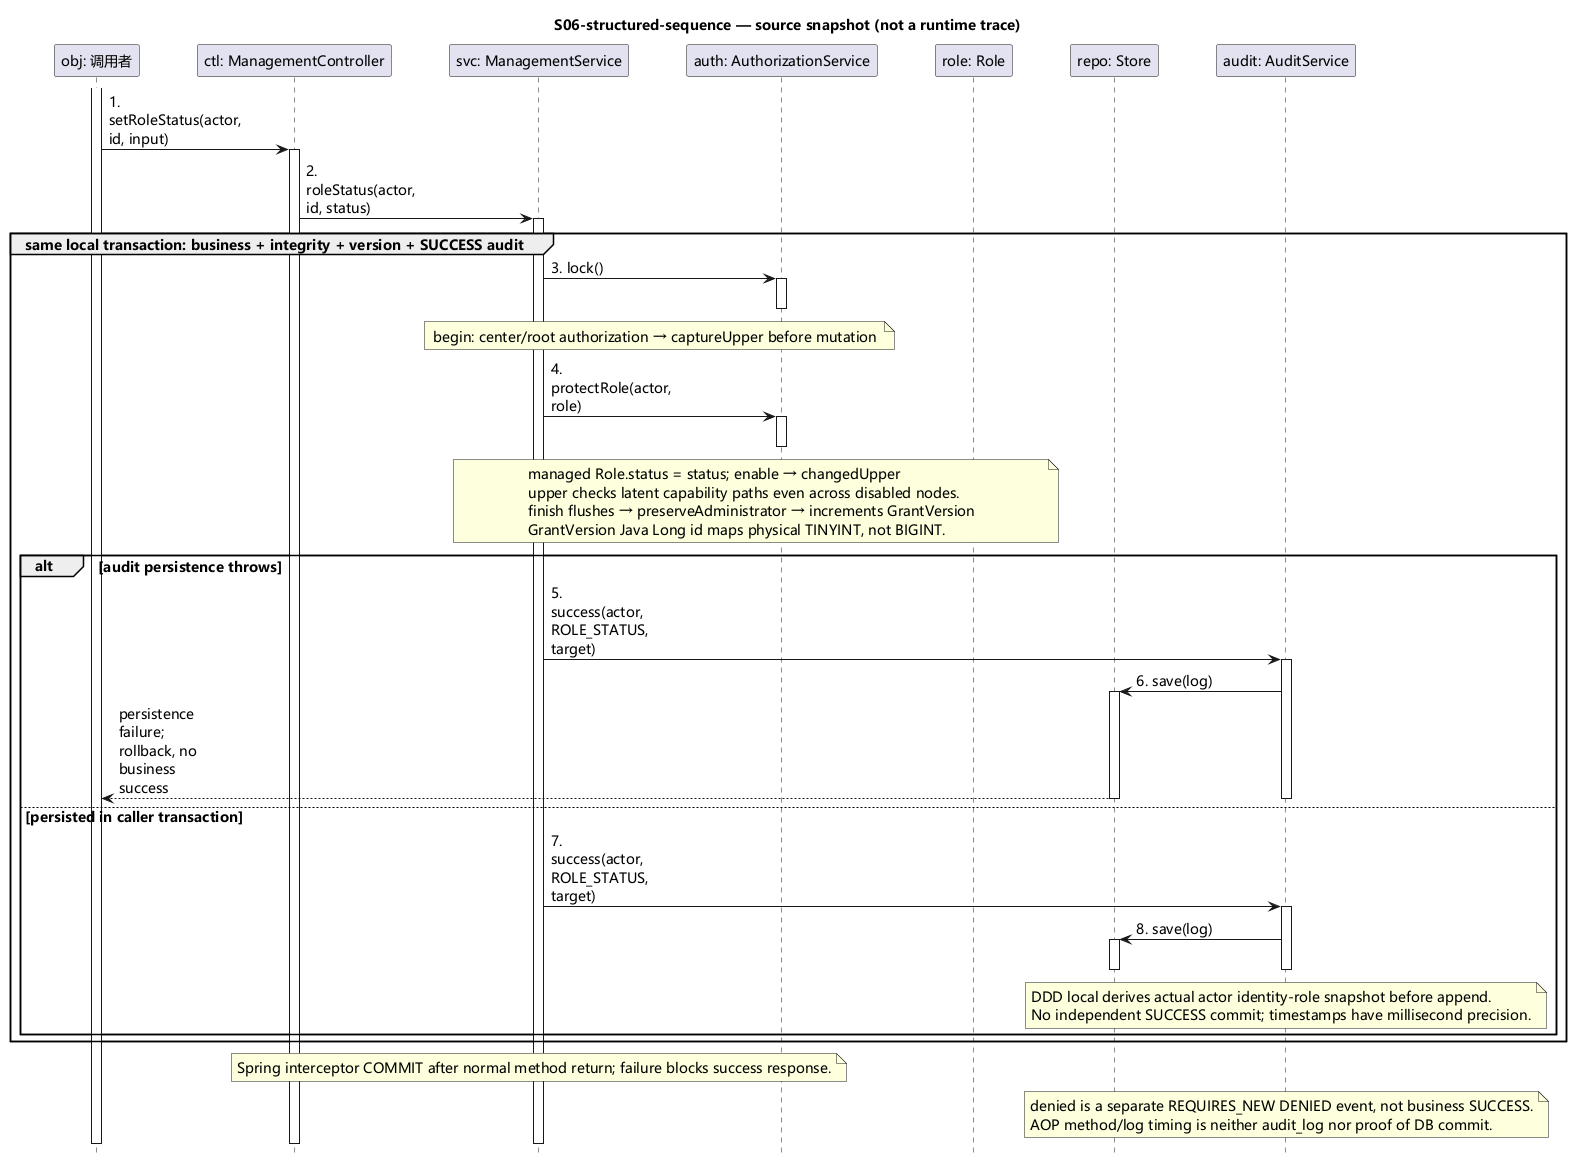
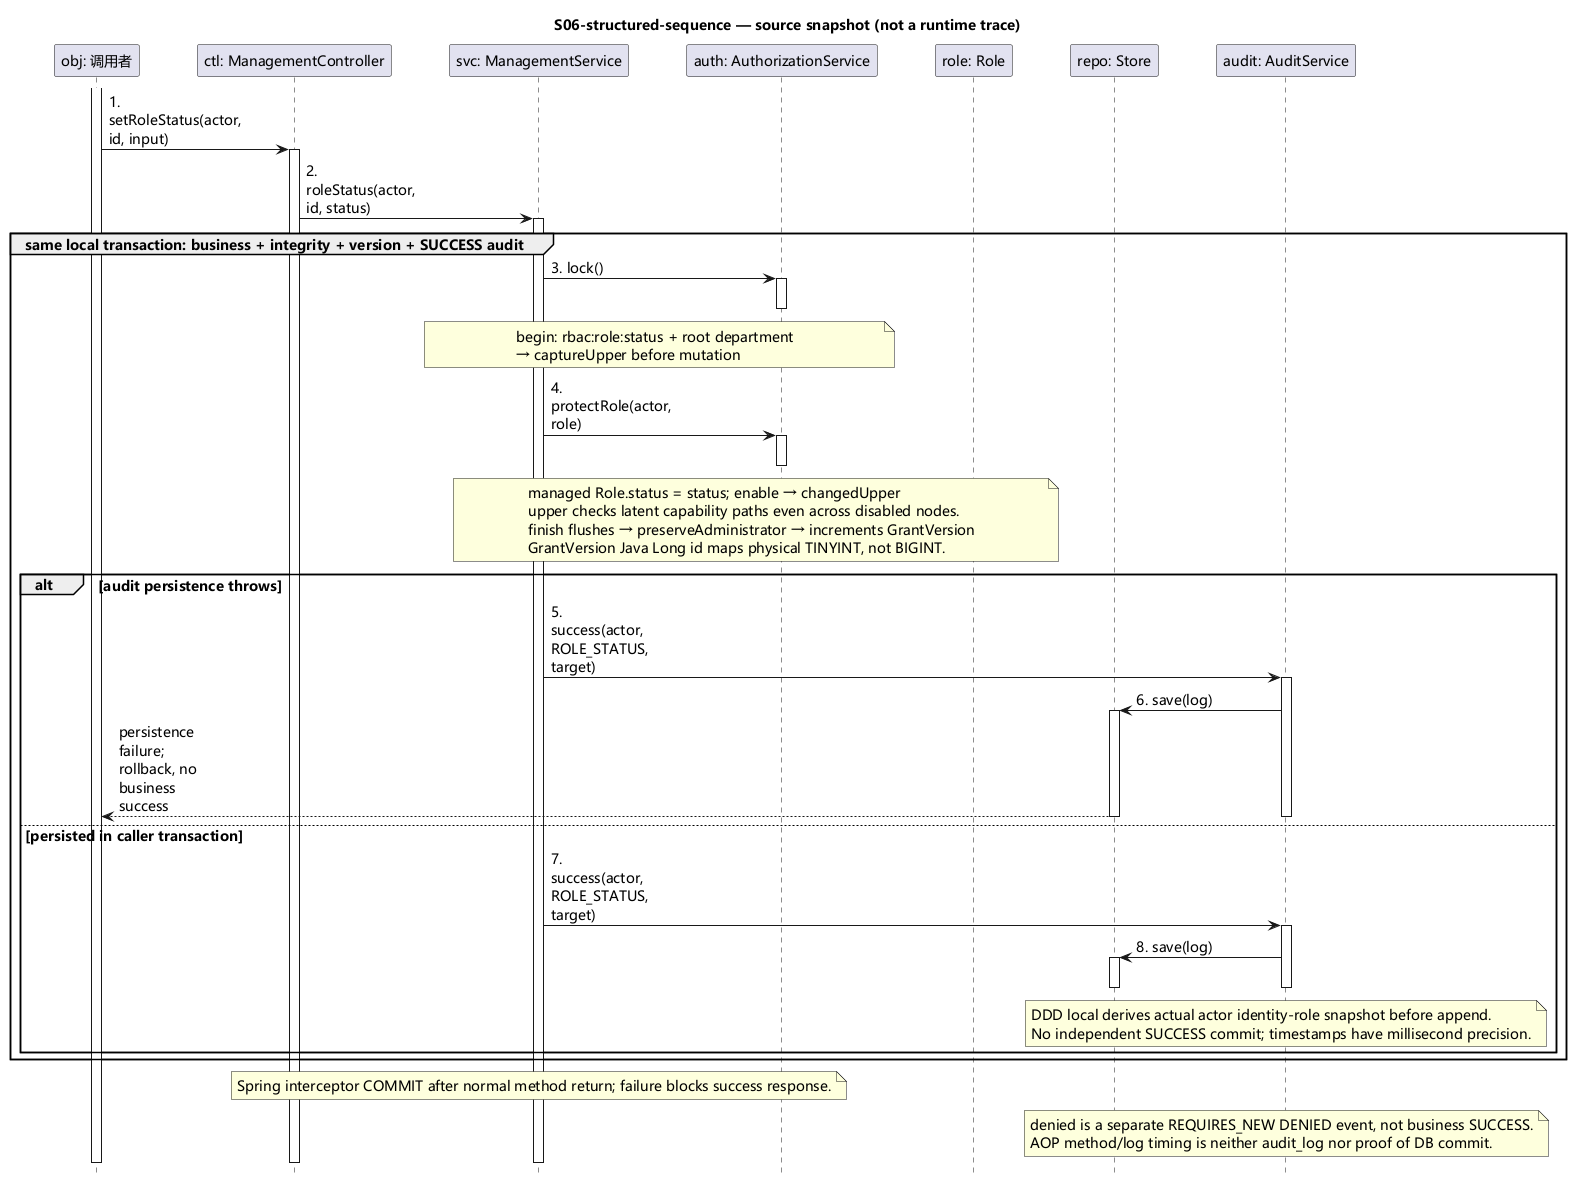
fix(rbac): separate role status permission

diff --git a/tools/generate-rbac1-contract-test.py b/tools/generate-rbac1-contract-test.py
@@ -24,6 +24,8 @@ def sql(query, expect_failure=False):
 def main():
     run([sys.executable,str(ROOT/'tools/generate-rbac1-contract.py'),'--check'])
     doc=yaml.safe_load((RES/'openapi/rbac-api.yaml').read_text(encoding='utf8'));validate_spec(doc)
+    assert doc['paths']['/api/v1/roles/{id}']['patch']['x-required-permission']=='rbac:role:edit'
+    assert doc['paths']['/api/v1/roles/{id}/status']['put']['x-required-permission']=='rbac:role:status', 'Role status API must require its own capability'
     print('OpenAPI semantic/$ref/operationId validation PASS')
     java=str(Path(os.environ['JAVA_HOME'])/'bin/java') if os.environ.get('JAVA_HOME') else 'java'
     version=subprocess.check_output([java,'-version'],stderr=subprocess.STDOUT,text=True,encoding='utf8',errors='replace')
@@ -46,12 +48,21 @@ def main():
         # Prefer one recent cached version, never mix all versions of a dependency.
         jars.append(sorted(candidates,key=lambda p:tuple(int(v) if v.isdigit() else v for v in p.parent.name.split('.')))[-1])
     source='''import org.flywaydb.core.Flyway;
+import java.sql.DriverManager;
 class ContractMigrationTest {
- public static void main(String[] args) {
-  Flyway f=Flyway.configure().dataSource("jdbc:mysql://127.0.0.1:13306/rbac1_schema_contract_test?useSSL=false&allowPublicKeyRetrieval=true&serverTimezone=UTC", "root", System.getenv("RBAC_CONTRACT_TEST_PASSWORD")).locations("filesystem:"+args[0]).cleanDisabled(true).load();
-  var first=f.migrate(); if(first.migrationsExecuted!=2) throw new AssertionError("Expected exactly V1/V2");
+ public static void main(String[] args) throws Exception {
+  String url="jdbc:mysql://127.0.0.1:13306/rbac1_schema_contract_test?useSSL=false&allowPublicKeyRetrieval=true&serverTimezone=UTC";
+  String password=System.getenv("RBAC_CONTRACT_TEST_PASSWORD");
+  var config=Flyway.configure().dataSource(url,"root",password).locations("filesystem:"+args[0]).cleanDisabled(true);
+  if(config.target("2").load().migrate().migrationsExecuted!=2) throw new AssertionError("Expected V1/V2 baseline");
+  try(var connection=DriverManager.getConnection(url,"root",password); var stmt=connection.createStatement()) {
+   stmt.executeUpdate("INSERT INTO sys_role(system_id,code,name,status) VALUES(1,'FIX_EDIT_ONLY','Edit only','ENABLED')");
+   stmt.executeUpdate("INSERT INTO sys_role_permission(role_id,permission_id) SELECT r.id,p.id FROM sys_role r JOIN sys_permission p ON p.system_id=r.system_id WHERE r.code='FIX_EDIT_ONLY' AND p.kind='API' AND p.code='rbac:role:edit'");
+  }
+  Flyway f=config.target("latest").load();
+  if(f.migrate().migrationsExecuted!=1) throw new AssertionError("Expected V3 upgrade only");
   f.validate();var second=f.migrate();if(second.migrationsExecuted!=0)throw new AssertionError("Repeat migration not idempotent");
-  System.out.println("Flyway migrate V1/V2, validate, repeat migrate PASS");
+  System.out.println("Flyway migrate V1/V2, upgrade V3, validate, repeat migrate PASS");
  }
 }'''
     with tempfile.TemporaryDirectory(prefix='rbac1-contract-') as temp:
@@ -60,6 +71,10 @@ class ContractMigrationTest {
     assert sql('SELECT COUNT(*) FROM information_schema.tables WHERE table_schema=DATABASE() AND table_name LIKE \'sys_%\';')=='15'
     assert sql("SELECT password_hash FROM sys_user WHERE id=1;")=='UNINITIALIZED'
     assert sql('SELECT COUNT(*) FROM sys_user_role;')=='1'
+    assert sql("SELECT p.code FROM sys_api_operation a JOIN sys_permission p ON p.id=a.permission_id WHERE a.system_id=1 AND a.operation_id='setRoleStatus';")=='rbac:role:status'
+    assert sql("SELECT p.code FROM sys_api_operation a JOIN sys_permission p ON p.id=a.permission_id WHERE a.system_id=1 AND a.operation_id='updateRole';")=='rbac:role:edit'
+    assert sql("SELECT r.code FROM sys_role_permission rp JOIN sys_role r ON r.id=rp.role_id JOIN sys_permission p ON p.id=rp.permission_id WHERE p.system_id=1 AND p.kind='API' AND p.code='rbac:role:status' ORDER BY r.code;")=='RBAC_ADMIN\nSUPER_ADMIN'
+    assert sql('SELECT version FROM sys_grant_version WHERE id=1;')=='1'
     assert sql('SELECT COUNT(*) FROM sys_api_operation WHERE system_id=2;')=='80'
     assert sql("SELECT required_role FROM sys_api_operation WHERE system_id=2 AND operation_id='copyCourse';")=='teacher'
     assert sql("SELECT COUNT(*) FROM sys_api_operation WHERE system_id=2 AND access_policy<>'PROTECTED';")=='0'
@@ -90,6 +105,6 @@ class ContractMigrationTest {
     for query in invalid:sql(query,expect_failure=True)
     sql('START TRANSACTION; INSERT INTO sys_user(subject,username,password_hash,name,department_id,status) VALUES(\'test-reservation\',\'test-reservation\',\'UNINITIALIZED\',\'Test\',1,\'ACTIVE\'); SELECT LAST_INSERT_ID(); ROLLBACK;')
     assert int(sql("SELECT AUTO_INCREMENT FROM information_schema.tables WHERE table_schema=DATABASE() AND table_name='sys_user';"))>=10000
-    assert sql('SELECT COUNT(*) FROM flyway_schema_history WHERE success=1;')=='2'
+    assert sql('SELECT COUNT(*) FROM flyway_schema_history WHERE success=1;')=='3'
     print(f'MySQL {DATABASE}: 15 exact-column tables, all catalogs/grants/mappings, root placeholder, ID reservation and {len(invalid)} negative constraint tests PASS')
 if __name__=='__main__':main()

diff --git a/tools/generate-rbac1-contract.py b/tools/generate-rbac1-contract.py
@@ -265,7 +265,9 @@ def seed(document, course, manifest):
         for method,op in methods.items():
             if method not in METHODS:continue
             code=op['x-required-permission'];policy='PUBLIC' if code=='PUBLIC' else 'AUTHENTICATED' if code=='@authenticated' else 'PROTECTED'
-            pid=None if policy!='PROTECTED' else permission(1,'API',code)
+            # Keep the already applied V2 byte-for-byte stable. V3 upgrades this operation.
+            seed_code='rbac:role:edit' if op['operationId']=='setRoleStatus' else code
+            pid=None if policy!='PROTECTED' else permission(1,'API',seed_code)
             aid=len(apis)+1;apis[(1,op['operationId'])]=aid
             add('sys_api_operation',id=aid,system_id=1,operation_id=op['operationId'],method=method.upper(),path_template=path,permission_id=pid,required_role=None,access_policy=policy,enabled=True,version=0)
             center.append((aid,op['operationId'],code,method,path))
@@ -331,7 +333,40 @@ def seed(document, course, manifest):
     sample_ids=['listTerms','createTerm','copyCourse','importRoster','createGroupJoinRequest','submitMaterials','createMilestone','bookOralSlot','getMyGrades','downloadFile']
     samples=[dict(byid[oid],category=next(g for g,ids in GROUPS.items() if oid in ids)) for oid in sample_ids]
     emit('catalog/coverage-samples.json',json.dumps({'source':SOURCE,'commit':COMMIT,'sha256':manifest['sha256'],'samples':samples},ensure_ascii=False,indent=2)+'\n')
-    return {'tables':15,'centerOperations':len(center),'courseOperations':len(course),'centerPages':len(pages),'permissions':len(permissions),'uiResources':len(uis),'mappings':len(mapping),'rolePermissionGrants':len(grants)}
+    return {'tables':15,'centerOperations':len(center),'courseOperations':len(course),'centerPages':len(pages),'permissions':len(permissions)+1,'uiResources':len(uis),'mappings':len(mapping),'rolePermissionGrants':len(grants)+2}
+
+def split_role_status_permission(document):
+    code=q(document['paths']['/api/v1/roles/{id}/status']['put']['x-required-permission'])
+    emit('db/migration/V3__role_status_permission.sql',f"""-- Separate role status from the role edit capability without changing V1/V2.
+START TRANSACTION;
+
+UPDATE sys_grant_version SET version=version+1 WHERE id=1;
+
+INSERT INTO sys_permission (system_id, code, name, kind, status)
+SELECT id, {code}, '启停角色', 'API', 'ENABLED'
+FROM sys_system WHERE code='rbac-center';
+
+UPDATE sys_api_operation a
+JOIN sys_system s ON s.id=a.system_id AND s.code='rbac-center'
+JOIN sys_permission p ON p.system_id=s.id AND p.kind='API' AND p.code={code}
+SET a.permission_id=p.id, a.version=a.version+1
+WHERE a.operation_id='setRoleStatus';
+
+-- Keep the existing built-in administrators authorized when they had the old capability.
+INSERT INTO sys_role_permission (role_id, permission_id)
+SELECT r.id, new_permission.id
+FROM sys_role r
+JOIN sys_system s ON s.id=r.system_id AND s.code='rbac-center'
+JOIN sys_role_permission rp ON rp.role_id=r.id
+JOIN sys_permission old_permission ON old_permission.id=rp.permission_id
+    AND old_permission.system_id=s.id AND old_permission.kind='API'
+    AND old_permission.code='rbac:role:edit' AND old_permission.status='ENABLED'
+JOIN sys_permission new_permission ON new_permission.system_id=s.id
+    AND new_permission.kind='API' AND new_permission.code={code}
+WHERE r.builtin=TRUE AND r.code IN ('SUPER_ADMIN','RBAC_ADMIN');
+
+COMMIT;
+""")
 
 def validate(document):
     ids=set();count=0
@@ -359,6 +394,7 @@ def validate(document):
 def main():
     parser=argparse.ArgumentParser(description=__doc__);parser.add_argument('--check',action='store_true');args=parser.parse_args()
     ddl();document=oas();course,manifest=course_catalog();counts=seed(document,course,manifest);counts['validatedOasOperations']=validate(document)
+    split_role_status_permission(document)
     old=list((RES/'db/migration').glob('V*.sql'))
     expected={p for p in OUTPUTS if p.suffix=='.sql'}
     if args.check:

diff --git a/tools/render-rbac1-design.scenarios.py b/tools/render-rbac1-design.scenarios.py
@@ -171,14 +171,14 @@ def build_sequences():
         q.raw('group same local transaction: business + integrity + version + SUCCESS audit')
         q.call('svc','repo' if d else 'auth','lockGrants' if d else 'lock')
         if d:
-            q.call('svc','auth','require','principal, rbac:role:edit, true');q.call('svc','repo','role','id')
+            q.call('svc','auth','require','principal, rbac:role:status, true');q.call('svc','repo','role','id')
             q.call('svc','auth','requireRoleManagement','actor, role');q.call('svc','role','changeStatus','enabled')
             q.raw('opt enabling');affected_grants(q);q.raw('end')
             q.call('svc','repo','saveRole','role');q.call('svc','integrity','requireAdministrator')
             q.raw('note over integrity: active identities + root department + role eligibility\n+ current graph/permissions → LastAdministratorPolicy.\nNo qualified effective SUPER_ADMIN → 409; outer transaction rolls back.')
             q.call('svc','repo','advanceVersion')
         else:
-            q.raw('note over svc,auth: begin: center/root authorization → captureUpper before mutation')
+            q.raw('note over svc,auth: begin: rbac:role:status + root department\n→ captureUpper before mutation')
             q.call('svc','auth','protectRole','actor, role')
             q.raw('note over svc,role: managed Role.status = status; enable → changedUpper\nupper checks latent capability paths even across disabled nodes.\nfinish flushes → preserveAdministrator → increments GrantVersion\nGrantVersion Java Long id maps physical TINYINT, not BIGINT.')
         q.raw('alt audit persistence throws')

diff --git a/rbac-structured/src/test/java/com/xmu/rbac/structured/integration/Rbac1IntegrationTest.java b/rbac-structured/src/test/java/com/xmu/rbac/structured/integration/Rbac1IntegrationTest.java
@@ -1311,7 +1311,7 @@ class Rbac1IntegrationTest {
                           .asLong();
         List<Long> rights =
             jdbc.queryForList("select id from sys_permission where system_id=1 and kind='API' and "
-                              + "code in ('rbac:role:edit','rbac:assignment:edit')",
+                              + "code in ('rbac:role:edit','rbac:role:status','rbac:assignment:edit')",
                 Long.class);
         grants(guard, rights.stream().mapToLong(Long::longValue).toArray());
         long u = user("ordinaryroleguard", 1);

diff --git a/rbac-ddd/src/main/java/com/xmu/rbac/ddd/application/RoleApplicationService.java b/rbac-ddd/src/main/java/com/xmu/rbac/ddd/application/RoleApplicationService.java
@@ -110,7 +110,7 @@ public class RoleApplicationService {
     public Role status(TokenProvider.Principal principal, long id, boolean enabled) {
         repository.lockGrants();
         AuthorizationRepository.Identity actor =
-                authorization.require(principal, "rbac:role:edit", true);
+                authorization.require(principal, "rbac:role:status", true);
         Role role = repository.role(id);
         authorization.requireRoleManagement(actor, role);
         role.changeStatus(enabled);

diff --git a/rbac-structured/src/main/java/com/xmu/rbac/structured/service/ManagementService.java b/rbac-structured/src/main/java/com/xmu/rbac/structured/service/ManagementService.java
@@ -400,7 +400,7 @@ public class ManagementService {
     /** 执行roleStatus操作，保持服务到持久化层的单向依赖。 */
     @Transactional
     public Object roleStatus(Actor a, Long id, String status) {
-        GrantVersion g = begin(a, "rbac:role:edit", true);
+        GrantVersion g = begin(a, "rbac:role:status", true);
         enabled(status);
         Role r = az.require(Role.class, id);
         az.protectRole(a, r);

diff --git a/rbac-contract/README.md b/rbac-contract/README.md
@@ -12,9 +12,9 @@ python tools/generate-rbac1-contract.py --check
 python tools/generate-rbac1-contract-test.py
 ```
 
-The last command **drops and recreates only `rbac1_schema_contract_test`**, after verifying container `rbac-phase2-test-mysql` is bound to loopback port 13306. It uses real cached Flyway 10.10.0 and MySQL JDBC jars, migrates V1/V2, validates checksums, repeats migration (zero executions), checks all 15 physical column lists against the frozen document, checks catalogs/grants/mappings and negative database constraints. MySQL queries run through `docker exec`; credentials are neither printed nor passed as CLI arguments. It never connects to or modifies `rbac_test`, production or application test schemas. Static generation/check has no database access.
+The last command **drops and recreates only `rbac1_schema_contract_test`** after verifying that `rbac-phase2-test-mysql` is bound to loopback port 13306. It applies V1/V2, adds a custom edit-only role, upgrades to V3, validates checksums and checks that a second migration runs zero scripts. It checks the effective catalogs, grants, mappings, table columns and database constraints. MySQL queries run through `docker exec` with credentials kept in the container. Static generation/check uses local files.
 
-`target/` may contain stale resources from the previous build: run a **clean** Maven build before integrating the jar. Flyway has exactly `V1__rbac1_schema.sql` and `V2__rbac1_seed.sql`; old V1–V4 remain only in Git history. No baseline-on-migrate for existing schemas.
+`target/` may contain stale resources from the previous build. Run a **clean** Maven build before integrating the jar. Flyway applies V1/V2 for the RBAC1 baseline and V3 for the dedicated role status capability. V3 also applies to RBAC1 databases already on V2. The RBAC0 migration history remains in Git.
 
 ## Source and catalogs
 

diff --git a/diagrams/phase2/03-openapi.md b/diagrams/phase2/03-openapi.md
@@ -128,7 +128,7 @@
 | GET | `/api/v1/roles/{id}` | `getRole` | rbac:role:view | RoleVO |
 | PATCH | `/api/v1/roles/{id}` | `updateRole` | rbac:role:edit | {name?,description?,version?}，禁止status |
 | DELETE | `/api/v1/roles/{id}` | `deleteRole` | rbac:role:edit | 受控退役/清指派、边、权限、准入，保护最后有效超级管理员 |
-| PUT | `/api/v1/roles/{id}/status` | `setRoleStatus` | rbac:role:edit | {status} |
+| PUT | `/api/v1/roles/{id}/status` | `setRoleStatus` | rbac:role:status | {status} |
 | GET | `/api/v1/roles/{id}/permissions` | `getRolePermissions` | rbac:role:view | PermissionVO[]（直接） |
 | PUT | `/api/v1/roles/{id}/permissions` | `replaceRolePermissions` | rbac:role:edit | {permissionIds:Long[]}原子替换，仅同系统 |
 | GET | `/api/v1/roles/{id}/effective-permissions` | `getRoleEffectivePermissions` | rbac:role:view | EffectiveVO（以该角色为直接角色） |
